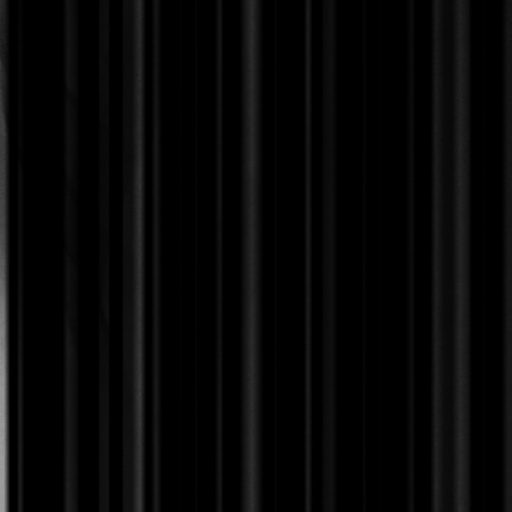
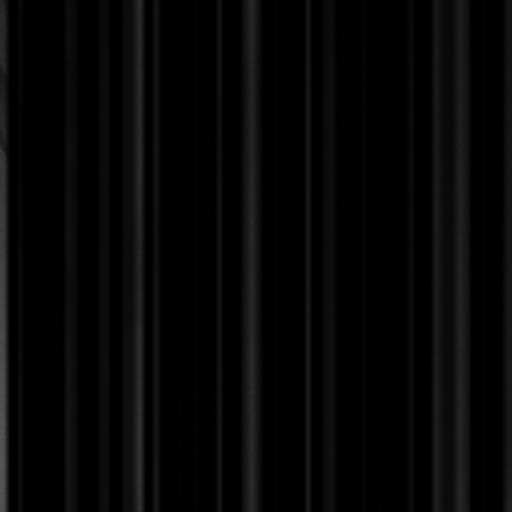
improving/debugging gradcam..

Changed region(s): [[0.0, 0.5312, 0.0312, 1.0], [0.0, 0.25, 0.0312, 0.2812]]

diff --git a/gradcam.py b/gradcam.py
@@ -73,6 +73,8 @@ def save_cam(cams, rank, class_id, class_name, prob, image_batch, input_image_pa
     image = np.uint8(image_batch[0][:, :, ::-1] * 255.0) # RGB -> BGR
     # cam = cv2.resize(cam, (224, 224)) # enlarge heatmap
     cam = cv2.resize(cam, (512, 512)) # enlarge heatmap
+    cv2.imwrite('cam.jpg', cam)
+    cv2.imwrite('image.jpg', image)
     cam = np.maximum(cam, 0)
     heatmap = cam / np.max(cam) # normalize
     cam = cv2.applyColorMap(np.uint8(255 * heatmap), cv2.COLORMAP_JET) # balck-and-white to color
@@ -126,6 +128,8 @@ def main():
     batch_labs = [0]
 
     batch_imgs, batch_labs = augment(batch_imgs, batch_labs, size)
+
+    cv2.imwrite('images0.jpg', batch_imgs)
 
     print('batch_imgs.size', batch_imgs.shape)
 
